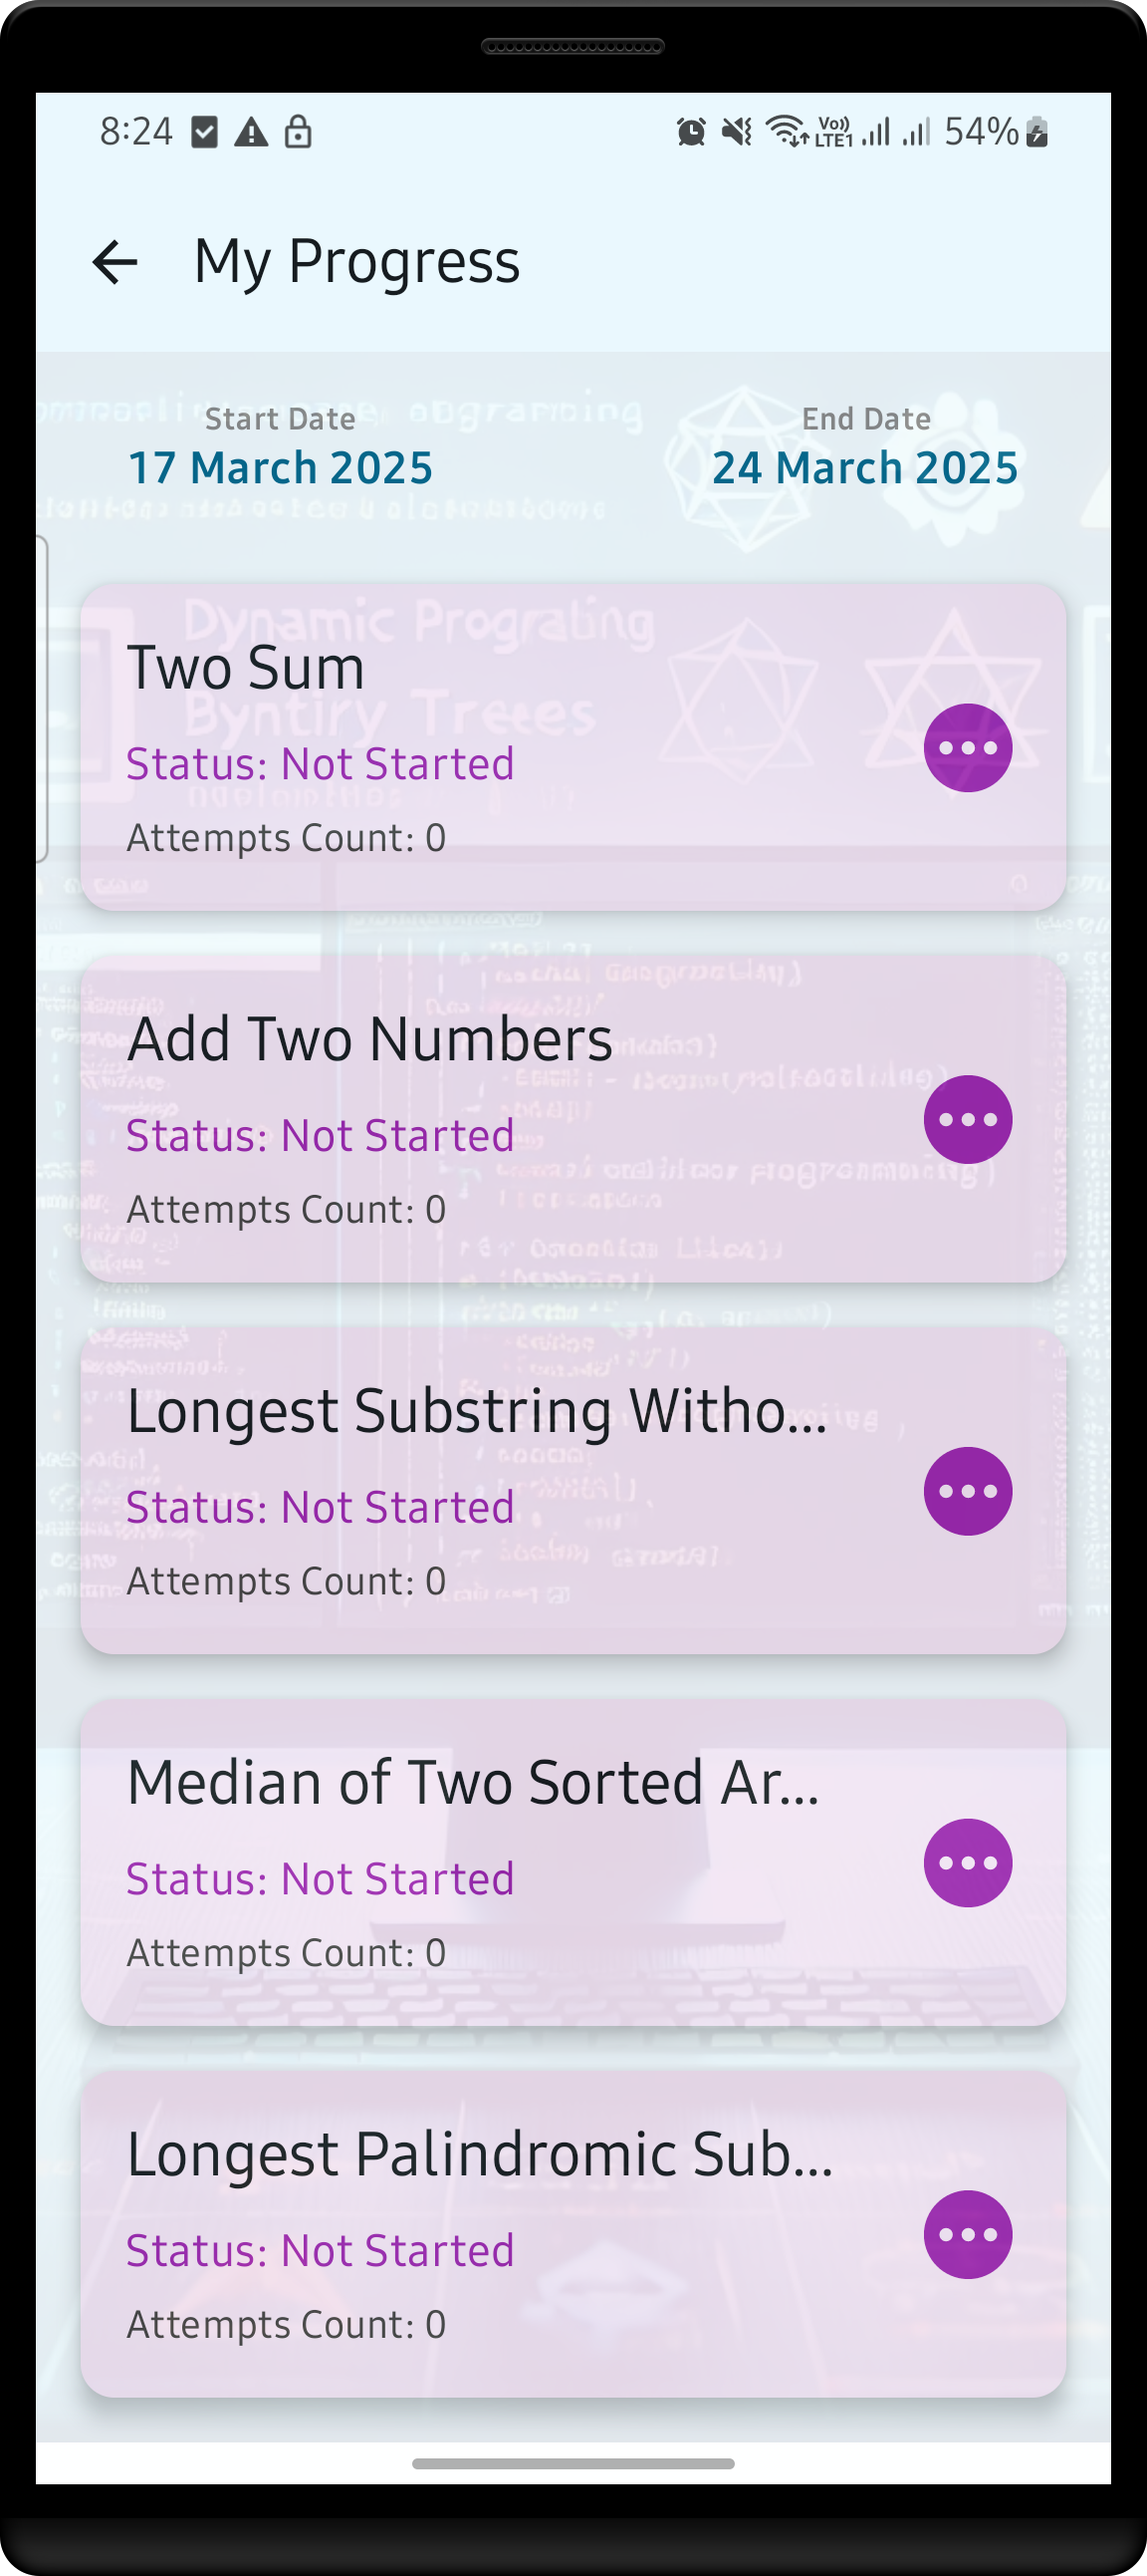
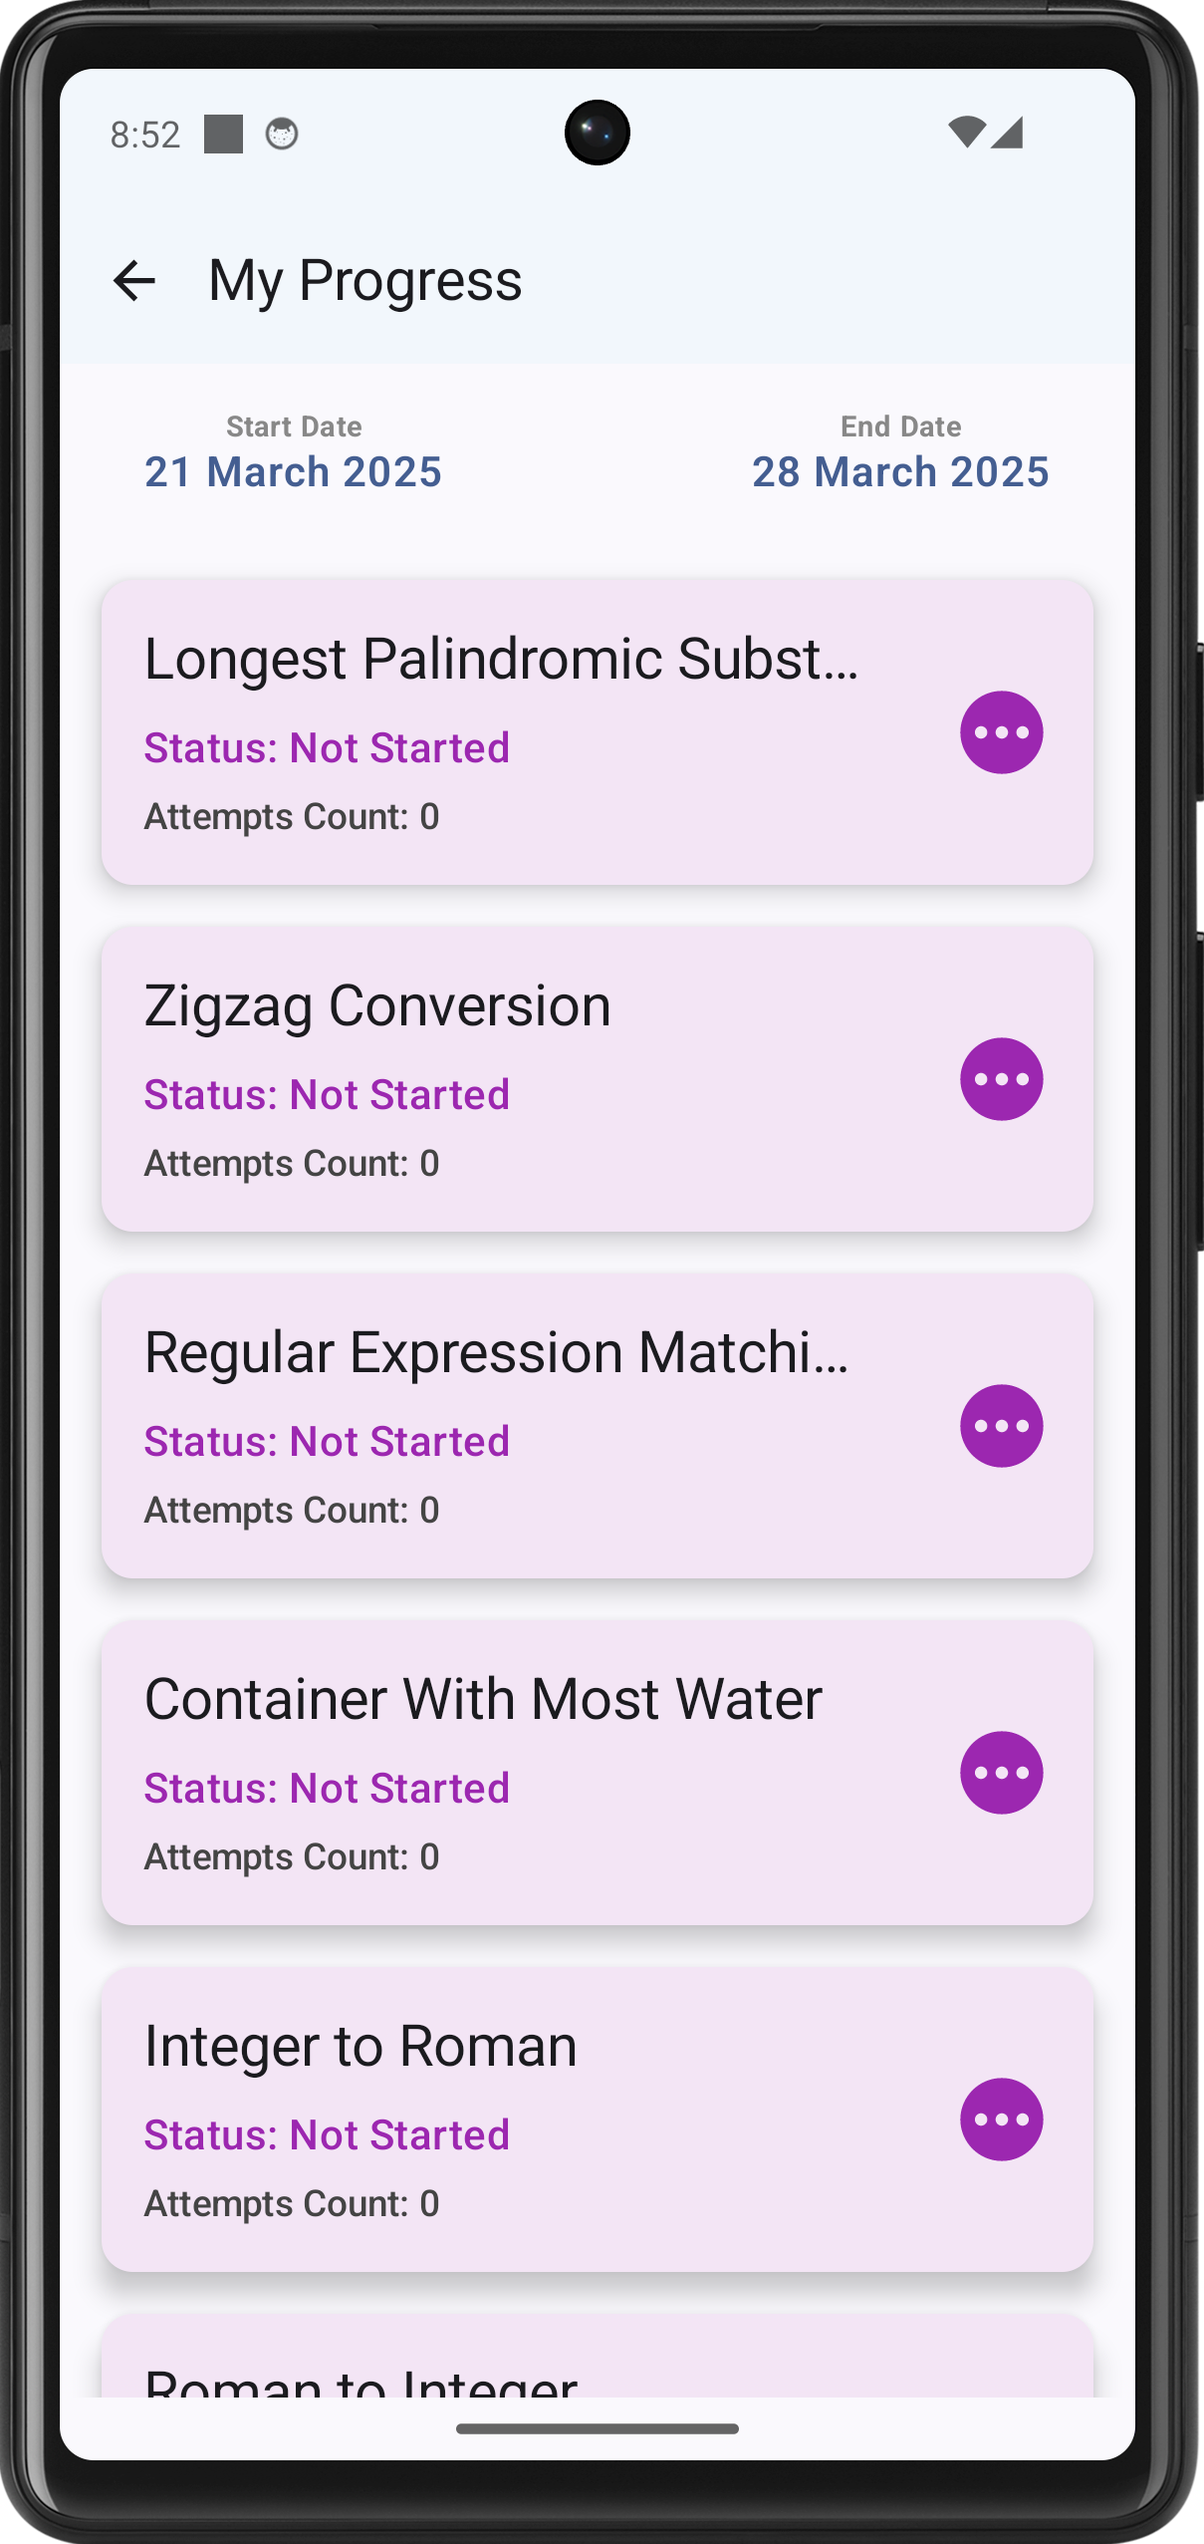
Remove inconsistent background from UI

diff --git a/app/src/main/kotlin/com/byteutility/dev/leetcode/plus/ui/screens/targetstatus/GoalProgressScreen.kt b/app/src/main/kotlin/com/byteutility/dev/leetcode/plus/ui/screens/targetstatus/GoalProgressScreen.kt
@@ -107,13 +107,6 @@ fun ProgressScreenContent(
                     ProblemCard(it, onNavigateToWebView)
                 }
             }
-            Image(
-                painter = painterResource(id = R.drawable.img),
-                contentDescription = null,
-                contentScale = ContentScale.FillHeight,
-                modifier = Modifier.fillMaxSize(),
-                alpha = 0.08f
-            )
         }
     }
 }
